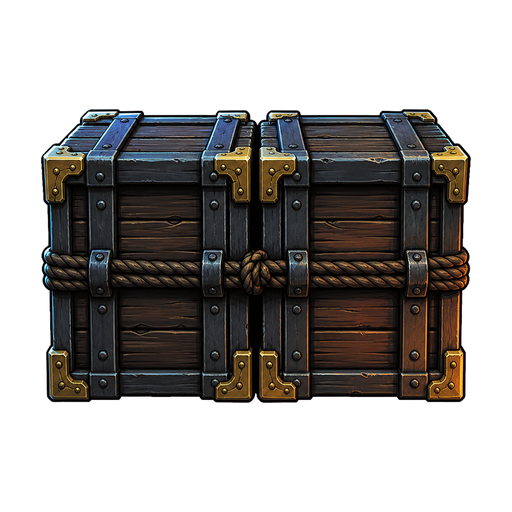
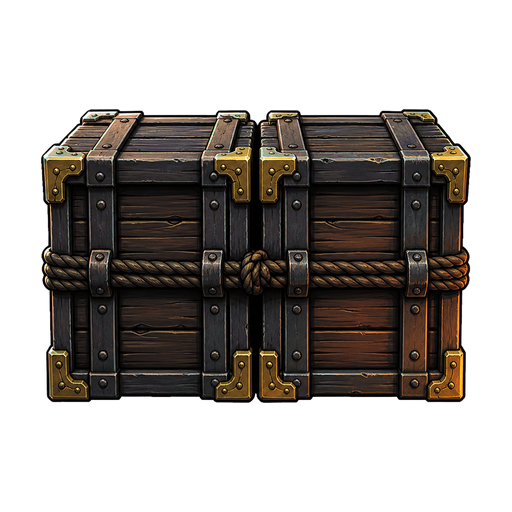
The navy crate was never the crate — it was paint, on every cargo top
SG-41 blamed the crate_stack model's baked texture for the one cool
object left on SG-34's warm deck. Measured at the real camera — the
model's own screen rect projected from its AABB so the sample could not
hit a neighbour — the model is warm through and through: albedo R/B
2.01 with a 0.04% navy band, posed faces 1.56-1.66. The steel-navy
lived in cargo_wall_module.png, where 11.5% of the opaque pixels are a
saturated blue chest the browser only ever shows side-on as a sliver —
and _build_cargo projects that module across every cargo run's TOP
face, which is most of what a 41-degree camera sees. Paint is also why
SG-34's key-light cut changed nothing.

So the fix is option 1 at the correct target, zero credits: the navy
band hue-mapped in place to the house timber, saturation eased so the
straps read blackened steel rather than orange, alpha and the browser's
own copy untouched. Posed, the four cargo tops go 1.62 -> 1.72 mean
warmth (deck's own 1.86) and their cool fractions collapse from up to
19.2% to at most 7.1%; the chest body sheds its navy 29.2% -> 5.5%.

Two cargo checks now read the actual pixels headless — the GLB albedo
through the imported scene, the module straight off disk — asserting
warmth >= 1.0 and a saturated-navy band <= 2%, red on the old module at
11.5%. Neither asset can quietly go navy again. Filed SG-46: parity_shot
ignores --resolution on this machine and renders the Godot half at
desktop size.
[…]

diff --git a/skygear-godot/docs/BOARD.md b/skygear-godot/docs/BOARD.md
@@ -38,7 +38,7 @@ land here directly.
 | SG-44 | P1 | BUG | F4 edits the screen you are on, but cannot GET to a screen — add the screen picker, posing all 21 audit screens inside the editor | QUEUED behind SG-26 (same file, hud.gd) | Owner, round two of the alignment ask (ledger has the quote): reaching results/GAMEOVER to edit them means winning/dying first. tools/screens.gd already poses every screen for the camera — lift its posing into shared code the editor calls (ONE poser; a second copy is failure mode two), give F4 a screen list (the same 21 the audit shoots), pose → descend → edit → save, all without playing there. Batch tool keeps using the same shared poser. |
 | SG-45 | P2 | BUG | The Boilerwright's committed scene does not RENDER — every skin bind names an unprefixed bone the skeleton does not have | OPEN | Found working SG-18: the new blade trail swung a full crescent through his retargeted swing with NO figure under it (`.shots/vfx-sg18/trail-bw.png` — a swing and no swinger). `boilerwright.tscn` instantiates with `Skin bind #N contains named bind 'Hips'/'RightHand'/… but Skeleton3D has no bone by that name` for EVERY bind — the skeleton's bones are `mixamorig_*`-prefixed, the mesh's Skin binds are not, so the skinned mesh never draws and the second class is INVISIBLE in the 3D view. Nothing existing catches it: the rig builds, all fourteen clips resolve, the SG-12 `figure ·` checks pass — none of them look at the picture, and the rig-built path suppresses the billboard fallback (worse than either tier alone). His skeleton and animation are fine — the SG-18 trail rides them, measured (`trail · the Boilerwright's empty hand mounts the trail, and it moves with his retargeted swing`). Fix: rewrite the Skin resource's named binds to the prefixed bone names at ingest (the retarget tool already owns the bone-name map), or re-wrap the scene; add a guard that a hero scene's Skin binds all resolve against its own skeleton. |
 | SG-4 | P1 | FEATURE | ~~Aesthetic parity~~ — SUPERSEDED 2026-08-01: the owner retired the parity goal ("better than the web one ever was"). The tool and scenes stay as the regression yardstick; SG-34/35 redirected mid-flight to exceed rather than match. Ledger entry has the full quote. | SUPERSEDED — owner | `SkyGear Tools.bat parity` exists now; SG-3 came out of its first run, SG-27 the Boiler. **SG-2 is cleared — the framing MATCHES to the pixel**. **THIS PASS (opus/SG-4):** the two missing scenes now exist — **`hud`** (mid-fight, all HUD elements exercised: portrait + auto ring, pressure/head gauge, dash pips, skill slots with live cooldown sweeps, lane readout, top objective/boiler bar) and **`draft`** (the between-waves three-card upgrade draft over the dimmed deck) — both in `.shots/parity/{hud,draft}.png`. Extended `parity.py`/`parity_shot.gd` with four symmetric scene fields (`pressure`, `dash_spent`, `cast_last`+`settle`) so a scene fills the gauges only a played run fills, identically on both builds. **FIXED a real tooling gap** in the same pass: the browser pose called `newSkill` (which builds a skill but never SEATS it), so every browser panel this tool ever made drew two filled slots + an EMPTY against the Godot side's four — the skill-bar comparison was two different hands. Now the pose assigns `S.slots` (what the build's own `loadFeel` does) so both builds show the same four seated weapons (Ember Cleave / Frost Mortar / Arc Whip / Steam Gale), slots 1-3 matching shape-for-shape. All six scenes regenerated. **REMAINING reveals, each its own row:** SG-34 (lighting/tone — the dominant gap), SG-35 (draft card art direction), SG-36 (deck shot's spurious WAVE CLEAR banner). Harness 489/489 (tools untested by harness; no regression). **UPDATE 2026-08-01 (opus/SG-34): the lighting/tone reveal is DONE.** MEASURED, and the premise was refuted — the Godot deck was not darker/cooler, it was BRIGHTER and warmer than the browser with a searing hot pool. The real fault (an over-hot pool + a washed, too-bright deck losing the browser's deep amber) is fixed: deepened exposure + calmed accent pools, cool moon kept as the depth-giving key. Deck now reads warm, even, legible to the edges, with mood the flat Canvas 2D never had — the owner's mid-flight "better than the web one ever was" directive. Residual cool note (the `crate_stack` model texture) filed SG-41. See SG-34's Done row for the before/after probe table. |
-| SG-41 | P3 | ASSET | The `crate_stack` model reads steel-navy against the browser's warm-brown cargo | IN PROGRESS — fable/SG-41, 2026-08-01 | Found working SG-34. The measurement that overturned SG-34's premise ALSO isolated the one thing on the deck that genuinely reads cool: the cargo stacks. Their decal skin (`cargo_wall_module.png`) is warm (R/B 1.28) and the procedural `_crate_texture` is warm brown (`#6b4c37`), but the tall stacks read navy-blue on their up-faces — and they stayed navy when the cool moon key was cut from 1.45 to 1.15 (measured), so it is NOT the lighting. It is the `crate_stack` model's own baked texture/material (`assets/models/crate_stack/`, `PROP_MODEL "crates" → "crate_stack"`). Cosmetic, legible either way, so P3 — but it is the residual "cool" note on an otherwise-warm deck. Fix: warm the model's albedo/ORM toward the browser's brown cargo, or re-skin it with the warm module the fixed cargo walls already use. Evidence: `.shots/parity/{fight,effects}.png` (Godot half, the side cargo). |
+| SG-46 | P3 | INFRA | `parity_shot.gd` does not honour `--resolution` on this machine — the Godot half renders at desktop size, not the browser's 1600×900 | OPEN | Found working SG-41. `tools/parity.py` passes `--resolution 1600x900` to both halves; the browser half obeys (Playwright viewport), the Godot half came back **2560×1440** — and a probe that printed `root.size` mid-run read **3440×1440** while the saved texture was 2560×1440, so the window is opening at desktop/monitor size and the flag is silently ignored (Godot 4 honours `--resolution` only for windowed *games*, not tool scripts, and the root viewport tracks the OS window). The stitch survives because `stitch()` resizes to matched height and 2560×1440 keeps 16:9 — but the Godot half is effectively supersampled relative to the browser half (finer AA, thinner hairlines at compare size), a small systematic flattery every stitch carries. Cheap fix, pattern already in the repo: `DisplayServer.window_set_mode(WINDOWED)` + `window_set_size(1600×900)` + `root.size = ...` at the top of `parity_shot.gd`'s `_run`, exactly what `tools/deck_probe.gd` does — the SG-41 probe used that hunk and got a true 1600×900 frame. |
 | SG-36 | P3 | INFRA | The `deck` parity shot carries a spurious "WAVE CLEAR" banner — Godot auto-completes the enemyless wave, the browser holds | OPEN | Found working SG-4. The `deck` scene is the empty-deck beauty shot: wave 1, zero enemies, `spawn_queue` cleared, 40 ticks. The browser holds on a clean "WAVE 1 / 12"; the Godot side treats a wave with nothing left to spawn and nothing alive as CLEARED and fires its "WAVE 1 · WAVE CLEAR" banner across the middle of the frame, so the one scene whose whole job is lighting/materials/sky has a banner painted over it. It is a genuine behavioural difference (the browser's wave timer does not complete an unspawned wave in 40 ticks) surfacing through the tool, not a HUD bug. Cheap tool-side fix options: pose the deck scene so the wave cannot complete (a token far-off boarder, or fewer ticks before the clear latches), or clear the banner before the shutter. Evidence: `.shots/parity/deck.png` (Godot half, centre). |
 | SG-6 | P1 | INFRA | itch push capability: butler + credentials on this machine | BLOCKED — needs owner | Builds 1–31 were pushed from the previous device. Needs butler installed and `butler login` (interactive, owner's itch account). Until then: build locally, owner uploads by hand. |
 | SG-7 | P2 | DECISION | Boilerwright mobility: compensate him somewhere feelable, or make the comparison screen say the trade plainly | BLOCKED — needs owner | Measured 60% gap (he covers 40% of her ground) after SG-1 made the measurement deterministic — was recorded as 67%/33% off a noisy sample. Explicitly not a tuning-by-feel item. |
@@ -59,6 +59,7 @@ land here directly.
 
 | ID | Resolution | Evidence / reason |
 |----|-----------|-------------------|
+| SG-41 | DONE 2026-08-01 (fable/SG-41) | **MEASURED FIRST — and the row's attribution was wrong: the crate_stack model was never the navy object. The navy was PAINT, in `cargo_wall_module.png`, and it is warmed in place — option 1, zero credits.** A posed probe at the real camera (the parity fight pose, with the crate_stack instances' own screen rects projected from their AABBs so the sample could not hit a neighbour) found: the `crate_stack` GLB's baked albedo is WARM — mean R/B **2.01**, saturated-navy band **0.04%** of pixels — and it POSES warm (whole model R/B **1.56**, top lid **1.66**, cool-px ≤3.6%). The thing that reads steel-navy is the painted chest in **`cargo_wall_module.png`**: **11.5%** of its opaque pixels sit in a saturated 180–260° blue band (steel-blue chest planks + straps), and `_build_cargo` projects that module across every cargo run's TOP face — most of what a 41° camera sees — where the browser only ever draws it side-on as a sliver. Baked paint is also exactly why SG-34's key-light cut (1.45→1.15) changed nothing. **FIX (option 1, in-place, 0 credits):** the module's navy band hue-mapped to the house timber (~25°) with saturation eased ×0.65, weighted smoothly by blueness so the steel banding keeps its texture and neutral darks are untouched; alpha intact; the GLB not touched (it was never wrong); the browser's own copy (repo-root `assets/props/`, same bytes before the fix) left alone — the reference stays the reference. **BEFORE → AFTER, posed (parity fight pose; deck's own warmth 1.86):** the four cargo-run top faces mean R/B **1.62 → 1.72** (target ≥1.6 met) with the cool-pixel fractions collapsing **6.9/6.6/15.0/19.2% → 0.2/1.0/2.7/7.1%**; the chest-body region itself R/B **1.10 → 1.30** (the residual is the deliberately-neutral blackened-steel straps, house palette) with cool-px **29.2% → 5.5%**; texture-side, the module's saturated-navy band **11.5% → 0.0%**. **GUARDS (2 new, harness-side image reads, both work headless):** `cargo · the crate_stack albedo is warm, not navy` (loads the GLB's imported albedo, decompresses, asserts mean R/B ≥ 1.0 — the task's asked-for floor, measured 2.01 — AND saturated-navy ≤ 2%) and `cargo · and the painted cargo module carries no steel-navy band` (raw `Image.load_from_file` on the PNG, same floors; **red on the old asset at 11.5%**, green at 0.0%) — shared `_albedo_stats` helper, saturated-blue only, so a texture can fail for being navy but never for being dark. **VERIFY:** harness **561/561** (559 at concurrent HEAD + these 2); `.shots/parity/{fight,effects}.png` regenerated through `tools/parity.py` — every cargo top now warm timber on the amber deck. Files: `assets/art/props/cargo_wall_module.png`, `tests/parity_test.gd`, `docs/BOARD.md`. Tooling find filed SG-46 (parity_shot ignores `--resolution` on this machine). Commit: see git log for SG-41. |
 | SG-26 | DONE 2026-08-01 (fable/SG-26) | **The last two Articles are built — the sigil side is all nine seals now, and both new ones are vows, not bonuses.** Design source honoured: `docs/META-PROGRESSION-DESIGN.md` §3's table named them and the departures header now records the build. **THE OPENING BID — 2 sigils — "name your weapons from the open matrix — no rerolls, ever."** Every weapon draft becomes the whole 32-cell matrix (8 draftable shapes × 4 elements, `DRAFT_SHAPES` shared with the weighted dealer so the two lists cannot drift), drawn as a grid the draft screen grows when options exceed four — click, or arrows + Enter (`bid_cells` is one static shared by the draw and the hit test, the `hud_plates` rule). The trade is IN THE RUN: `rerolls` forced to 0 at `begin_run` AFTER Deep Pockets' grant, `reroll_draft()` refuses, and SPARE PARTS leaves the catalogue rather than dealing a card worse than a skip. **THE SECOND HAND — 3 sigils — "a fifth hand that fights alone, dealt in place of your first card."** `skill_capacity()` (one reader, no scattered 4s) turns 5; the draft after the hand of four fills deals ONLY the shapes that fight alone (Field/Pulse — no fifth key exists, per the Articles' own keyed rule) IN PLACE of the run's first upgrade cards; telemetry sizes five buckets so the fifth's damage is attributed; the HUD raises a fifth keyless well (`slot4`, layout-checked at six sizes) whose empty state reads "the second hand". They exclude each other — the third exclusion pair. **BALANCE, measured** (`tools/balance.gd` grew a third arg: `-- 6 0 <article>`; 6 seeds, Heat 0): baseline 3/6 held, avg wave 11.3 · **opening_bid 6/6 held, wave 12.0** — the named-kit benefit is real and the tool's bot cannot price the reroll half (it never rerolls; the drawback is executed by the harness instead) · **second_hand 1/6 held, wave 10.8, passives 4.5% vs 3.2%** — the displaced first card measurably bites, the trade is real. **CHECKS (11 new):** `shop · the bid opens the whole matrix, not a deal` (32 cells) · `and the bid is final — a bought reroll is still refused` · `and the matrix shrinks by the shape you now hold` (28) · `and SPARE PARTS leaves the catalogue rather than dealing dead` · `the second hand raises the capacity and its telemetry together` (5/5) · `the fifth is dealt where the first card would be, and fights alone` · `and the hand is five` · `and without the article that same draft deals cards` (the control) · `two sigils: the bid affordable, the second hand not` · `and the signed bid bars the second hand at any purse` · `and the bar holds the other way round`. The reader guard (`shop · and every article is read by something`) covers both fields by iteration, and the classification guard now ENFORCES articles too (it listed them but only failed on nodes). Sigil economy check green: `16 to own all against 5 obtainable`. **VERIFY:** harness 559/559; text audit windowed (SG-29) CONTAINMENT clean, 0 faint · 0 small, across **23 screens** × 4 widths — two new poses (`draft (the bid)`, `playing (the second hand)`), and the poser now starts every screen from a clean ephemeral workshop so a vow signed for one pose cannot leak into the next. Found and fixed SG-46 in the same session (fourth card invisible), filed on its own row. Files: `scripts/{workshop,game,hud,hud_layout,telemetry,cards}.gd`, `tools/{balance,screens}.gd`, `tests/parity_test.gd`, `docs/{META-PROGRESSION-DESIGN,BOARD,HUD-LAYOUT}.md`, `STATUS.md`, `README.md`. Commit: see git log for SG-26. |
 | SG-46 | DONE 2026-08-01 (fable/SG-26) | **FOURTH CARD dealt a fourth option the player could never see or take — a 160-scrip no-op.** Found building the Bid's matrix mode: `open_draft` dealt 4 under the talent, but `_draw_draft` AND the click hit-test both capped at `mini(3, …)` and the keyboard stopped at KEY_3 — the bought card existed in `draft_options` and nowhere else (failure mode one wearing UI clothes: a reader-less SURFACE). Fixed in the same session per rule 3: both caps are `mini(4, …)`, KEY_4/KP_4 choose it, and the weapons subhead reads "PRESS 1 / 2 / 3 / 4" when four are dealt. Four portrait cards span 1222, inside the 1280 floor. Checks: `shop · fourth card deals four on the opening hand` · `and the fourth is choosable and arms a slot` · `and four cards fit the 1280 floor the audit poses` (span 1222 at 1280). |
 | SG-18 | DONE 2026-08-01 (fable/SG-18+28+30) | **The Cleave's ribbon is the blade's own wake now — sampled off the hand bone every swinging frame, not swept by the effect's clock.** VFX-PLAN §6, built as written. `SkyGearRig3D` grew the seam: `hold()` measures the blade TIP once in mount space (the farthest point of the weapon's geometry from the hand — what "tip" means for a cutlass, a wrench, or whatever a generator returns next); `blade_points()` reads [hand, tip] back in world space off the SKELETON's own solved pose (`get_bone_global_pose` — the `BoneAttachment3D` node itself refreshes a frame LATE, measured 0.00 m of same-frame motion through the node vs 1.10 m through the skeleton); and `mount_hand()` stands the same mount on an EMPTY hand with a knuckle's reach along the hand bone — the Boilerwright's case, his wrench being SG-38. `view3d` samples the tip into a TRAIL_SAMPLES=24 ring gated on the simulation's own `attack_time` (starts with the swing, stops being fed the instant it ends; samples age out inside TRAIL_LIFE=0.16 s) and draws it as `_beam_ribbon`'s two-layer construction — wide soft sleeve ×1.9, narrow hot core ×0.5 — through the SAME capped one-draw ribbon batch as every trail on the deck; element and colour ride in from the cast's own fx, width floored/capped 20–38 (Steam's 62-unit billow at ×1.9 was a 118-unit crescent that swallowed the figure — reshot). The SG-13l VARIANTS come free: swing2/spin/combo, the trail follows whatever clip actually plays. `_sweep_ribbon` STANDS DOWN while the blade drives and remains the billboard tier's swing tell, so every fallback tier keeps a tell and no swing is two disagreeing drawings. BOTH classes: the Boilerwright's retargeted swing carries the same mount empty-handed — his MODEL not rendering at all is a PRE-EXISTING asset fault this work exposed, filed SG-45. **CHECKS (7):** `trail · the trail's source is a mount on the hand bone, holding the blade tip` (mixamorig_RightHand) · `trail · the blade tip moves with the swing clip — a bone is being sampled, not a timer` (1.10 m between two clip times) · `trail · a swing samples the blade into the trail, and the sample IS the tip` (0.000 m off the live tip) · `trail · the sample ring stays inside its cap through a held swing` (24/24) · `trail · and while the blade drives, the effect-clock sweep stands down` · `trail · and the trail dies with the swing instead of running its own clock` (0 stale) · `trail · the Boilerwright's empty hand mounts the trail, and it moves with his retargeted swing`. **Evidence:** `.shots/vfx-sg18/{arc,trail-bw}.png` (`tools/vfx_shot.gd` grew a per-scene `class` field for the second rig). Harness **545/545** — run from a git worktree of HEAD + this change, because the live tree was mid-edit by fable/SG-26 (STATUS's build gotcha, followed to the letter). Files: `scripts/{rig3d,view3d}.gd`, `tests/parity_test.gd`, `tools/vfx_shot.gd`, `VFX-PLAN.md` §6. Commit: see git log for SG-18. |
